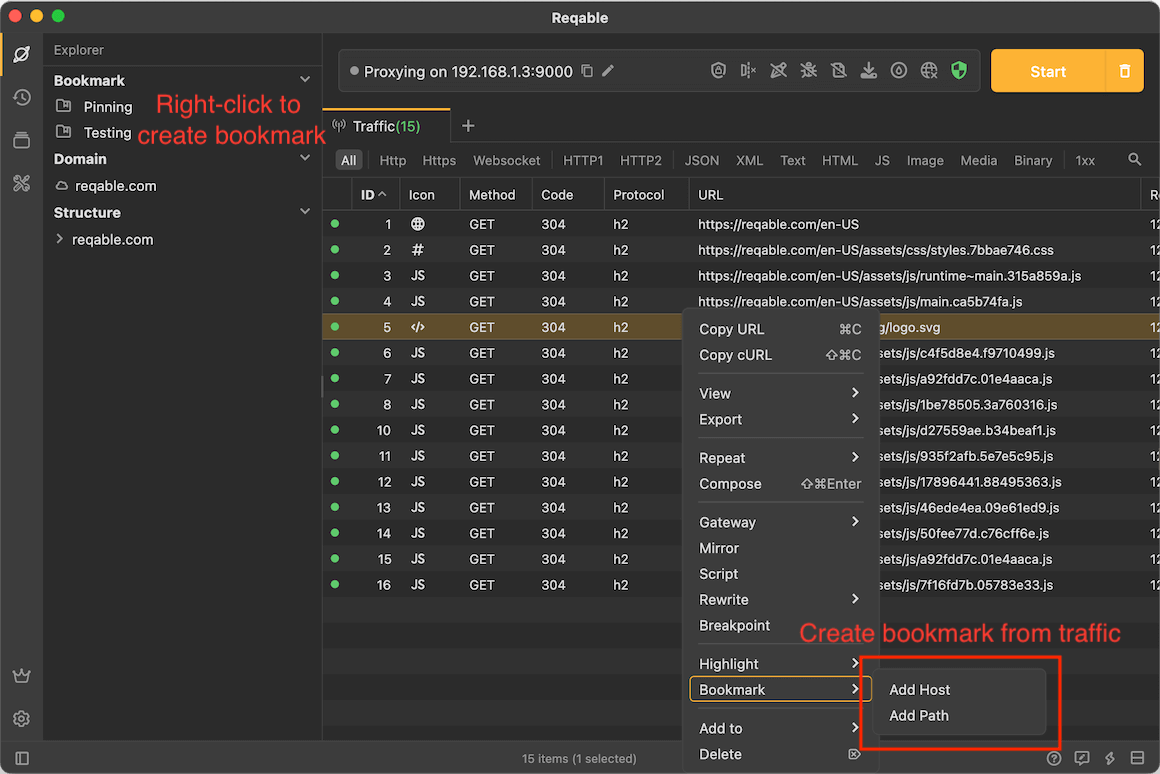
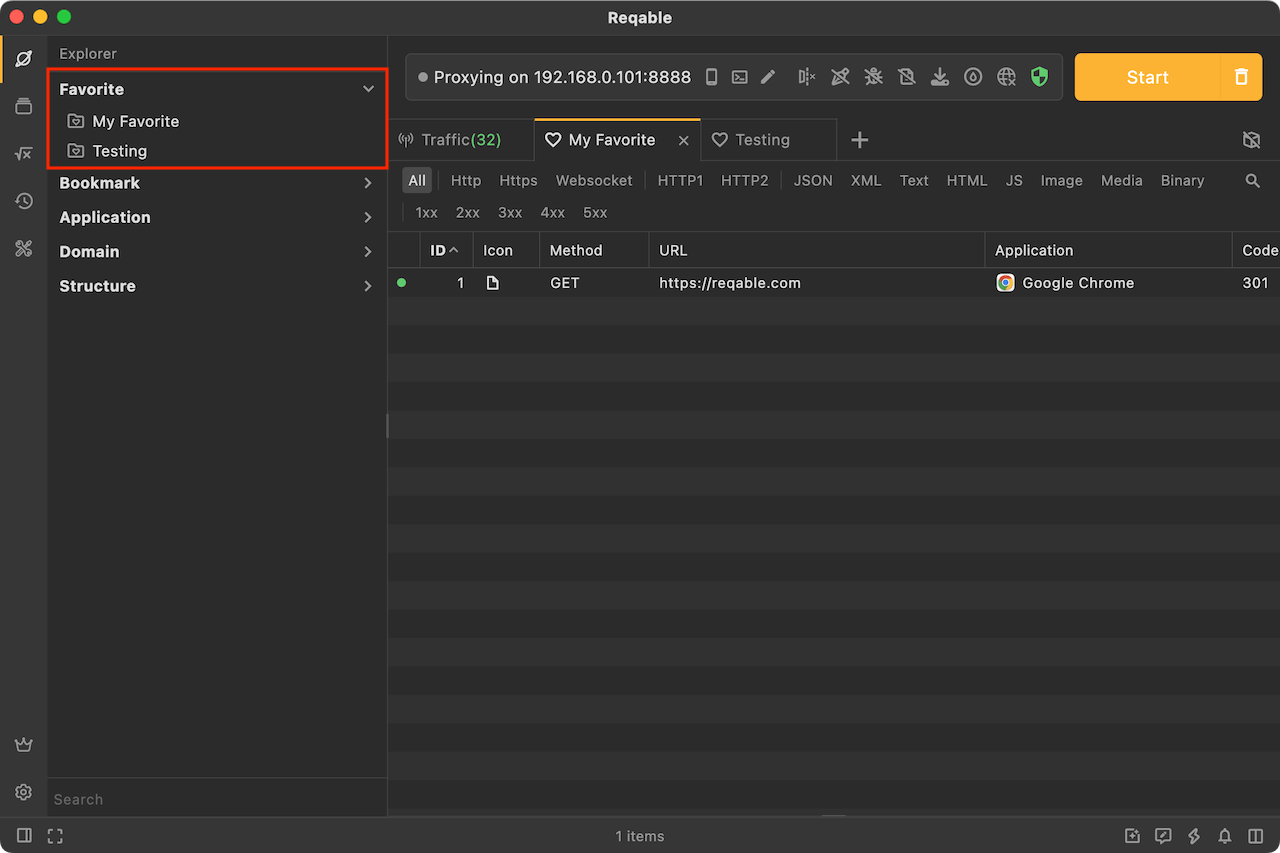
Update docs for capture explorer

diff --git a/zh-CN/capture/04_explorer.md b/zh-CN/capture/04_explorer.md
@@ -1,15 +1,18 @@
 # 工作台
 
-除了主内容区域操作外，Reqable还提供了**工作台**侧边栏用于辅助操作。点击侧边栏的第一个图标，可以打开工作台面板。工作台中包含三个部分：[书签](#bookmark)、[域名](#domain)和[结构树](#structure)。
+除了主内容区域操作外，Reqable还提供了**工作台**侧边栏用于辅助操作。点击侧边栏的第一个图标，可以打开工作台面板。工作台中包含五个部分：[收藏](#favorite)、[书签](#bookmark)、[应用程序](#application)、[域名](#domain)和[结构树](#structure)。
 
 ![](arts/explorer_01.png)
 
+### 收藏 {#favorite}
+
+用户可以在[调试列表](./list)中将请求记录添加到收藏文件夹（右键菜单 -> 添加到 -> 收藏文件夹），在工作台中可以打开收藏文件夹查看和管理已收藏的请求记录。Reqable默认内置了`我的收藏`文件夹，用户也可以自行创建自定义的收藏文件夹。
+
+![](arts/explorer_02.png)
 
 ### 书签 {#bookmark}
 
-书签用于快速筛选请求，书签通过文件夹（目前只支持单级目录）的方式进行管理。右键点击 **书签** 可以创建文件夹，在文件夹上右键点击可以新建书签，当然，我们还可以从列表的请求中创建书签。
-
-![](arts/explorer_02.png)
+书签用于快速筛选请求，书签通过文件夹（目前只支持单级目录）的方式进行管理。文件夹右键可以新建书签，我们还可以从[调试列表](./list)中的请求直接创建书签。Reqable默认内置了`我的书签`文件夹，用户也可以自行创建自定义的书签文件夹。
 
 书签按照目录结构过滤请求，例如 `https://reqable.com/zh-CN/` 可以过滤出下面的所有请求：
 
@@ -22,19 +25,34 @@ https://reqable.com/zh-CN/assets/css/styles.7bbae746.css
 
 ![](arts/explorer_03.png)
 
-### 域名 {#domain}
+### 应用程序 {#application}
 
-域名同样用于快速筛选请求，并且可以和书签同时使用（或的逻辑关闭）。工作台中会显示出列表中全部的域名数据，用户可以根据实际情况选择一个或者多个域名进行过滤，未选择的情况下列表将会显示全部。
+应用程序用于快速筛选请求，和[书签](#bookmark)是**或**的逻辑关系。工作台中会显示出列表中全部的应用程序（未检测到应用程序来源的流量将会以IP源地址显示），用户可以根据实际情况选择一个或者多个应用程序进行过滤，未选择的情况下列表将会显示全部。
 
 ![](arts/explorer_04.png)
 
 :::info 小技巧
 - 双击可以单选。
 - 点击数字可以取消全部选择。
+- 右键可以`固定`应用程序到顶部并一直保留。
 :::
+
+### 域名 {#domain}
+
+域名同样用于快速筛选请求，和[应用程序](#application)和[书签](#bookmark)是**或**的逻辑关系。工作台中会显示出列表中全部的域名数据，用户可以根据实际情况选择一个或者多个域名进行过滤，未选择的情况下列表将会显示全部。
+
+![](arts/explorer_05.png)
 
 ### 结构树 {#structure}
 
-结构树是列表的另一种展现形式，以文件目录的形式展示流量内容，在某些时候比列表更加直观。在结构树中点击请求，同样可以展开详情面板。另外，对于文件目录右键还可以此目录下的全部请求进行批量操作。
+结构树是列表的另一种展现形式，以文件目录的形式展示流量内容，在某些时候比列表更加直观。在结构树中点击请求，同样可以展开详情面板。
 
-![](arts/explorer_05.png)
+![](arts/explorer_06.png)
+
+另外，对于文件目录右键还可以此目录下的全部请求进行批量操作。
+
+### 搜索
+
+在底部搜索输入框可以对[域名](#domain)和[应用程序](#application)进行快速筛选。
+
+![](arts/explorer_07.png)

diff --git a/en-US/capture/04_explorer.md b/en-US/capture/04_explorer.md
@@ -1,15 +1,18 @@
 # Explorer
 
-In addition to the main content layout, Reqable also provides **Explorer** sidebar for auxiliary operation. Click the first icon in the sidebar to open the explorer panel. There are three parts in the explorer: [Bookmark](#bookmark), [Domain](#domain) and [Structure](#structure).
+In addition to the main content layout, Reqable also provides **Explorer** sidebar for auxiliary operation. Click the first icon in the sidebar to open the explorer panel. There are three parts in the explorer: [Favorite](#favorite)、[Bookmark](#bookmark)、[Application](#application)、[Domain](#domain) and [Structure](#structure).
 
 ![](arts/explorer_01.png)
 
+### Favorite {#favorite}
+
+Users can add traffic records to favorite folders in [Traffic List](./list) (right-click menu -> Add to -> Favorite Folders). In the Explorer, you can open the favorite folder to view and manage the favorite records. Reqable has a built-in `My Favorite` folder by default, and you can also create their own favorite folders.
+
+![](arts/explorer_02.png)
 
 ### Bookmark {#bookmark}
 
 Bookmarks are used to quickly filter traffic, and bookmarks are managed through folders (only single-level directories are currently supported). Right-click **Bookmark** to create a folder, right-click on a folder to create a new bookmark, of course, we can also create a bookmark from the traffic list.
-
-![](arts/explorer_02.png)
 
 Bookmarks filter traffic according to the structure, for example `https://reqable.com/en-US/` can filter out all the following requests:
 
@@ -22,19 +25,34 @@ That is, as long as the request is under the `en-US` directory in the domain nam
 
 ![](arts/explorer_03.png)
 
-### Domain {#domain}
+### Application {#application}
 
-The domains are also used to quickly filter traffic, and can be used at the same time as bookmarks (or logically). All domains in the list will be displayed in the explorer. Users can select one or more domains to filter according to the actual situation. If not selected, the list will display all.
+Application is used to quickly filter records, and has a logical relationship of ** or ** with [Bookmark](#bookmark). All applications in the list will be displayed (traffic without detected application source will be displayed by IP source address). You can select one or more applications for filtering. If no selection is made, the list will display all applications.
 
 ![](arts/explorer_04.png)
 
 :::info Tips
 - Double click to single select.
 - Click on a number to deselect all.
+- Right click to pin the app to the top and keep it there.
 :::
+
+### Domain {#domain}
+
+The domains are also used to quickly filter traffic, and can be used at the same time as bookmarks (or logically). All domains in the list will be displayed in the explorer. You can select one or more domains for filtering. If not selected, the list will display all domains.
+
+![](arts/explorer_05.png)
 
 ### Structure {#structure}
 
-The structure tree is another display form of the traffic. It displays in the form of a file directory, which is more intuitive than the list in some cases. Click a request in the structure tree to expand the details panel as well. In addition, right-clicking on a file directory can also perform batch actions on all requests under this directory.
+The structure tree is another display form of the traffic. It displays in the form of a file directory, which is more intuitive than the list in some cases. Click a request in the structure tree to expand the details panel as well.
 
-![](arts/explorer_05.png)
+![](arts/explorer_06.png)
+
+In addition, right-clicking on a file directory can also perform batch actions on all requests under this directory.
+
+### Search
+
+In the search input box at the bottom, you can quickly filter [Domain](#domain) and [Application](#application).
+
+![](arts/explorer_07.png)
